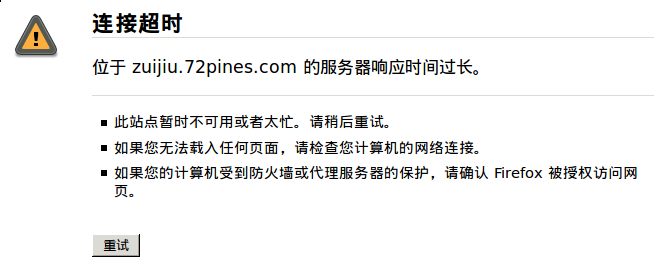
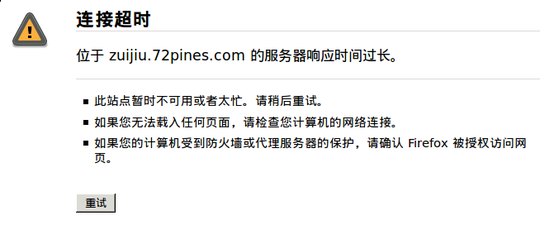
1 set body width to 600px to make it more beautifull
2 handwriting post

diff --git a/_layouts/default.html b/_layouts/default.html
@@ -19,19 +19,19 @@
     
     
     <div id="content">
-      <h1 class="title">Sagebane's little cabin</h1>
+      <h1 class="title">Non-geek's page</h1>
       <div id="navigation">
 	<a href="/index.html">home</a>
 	<a href="/blog.html">blog</a>
 	<a href="/404.html">contact</a>
 	<a href="/404.html">repo</a>
-	<hr style="width: 100%; height: 1px;">
       </div>
-
+      <hr style="width: 100%; height: 3px;">
+      <br>
       {{ content }}
 
       <div class="footer">
-	<hr style="width: 100%; height: 1px;"><br>
+	<hr style="width: 100%; height: 1px;">
 	<div align="center"><i><font size="-1">Copyright © sgbn - 23th Sep 2012</font></i></div>
 	<br>
       </div>

diff --git a/css/default.css b/css/default.css
@@ -15,7 +15,7 @@ body {
 
 #preamble, #content, #postamble {
   margin: 0 auto;
-  max-width: 800px;
+  max-width: 600px;
 }
 
 #navigation {

diff --git a/_layouts/post.html b/_layouts/post.html
@@ -2,6 +2,7 @@
 layout: default
 ---
 <div id="post">
+<h1>{{ page.title }}</h1>
   {{ content }}
 </div>
 

diff --git a/_posts/2013-03-06-english-handwriting.md b/_posts/2013-03-06-english-handwriting.md
@@ -1,0 +1,43 @@
+---
+layout: post
+title: English handwriting
+excerpt: 
+---
+
+一向喜爱英文书法婀娜的身姿， 苦于找不到一个可供临摹的范本。曾经下载过一
+些手写字体。妄图通过它们来学习书法。然而字体终归是死的,没有灵性。直到有
+一天，看到了Anna Green Winslow的日记，顿感眼前一亮，这不正是我想要的么。
+书写方式优雅大方，变化多端，却总透着一种自然美。而且这竟然是一个十岁小
+女孩的手笔。
+
+## 安娜的日记
+![Anna Green Winslow's diary](/images/Anna_Green_Winslow's_diary_entry_in_handwriting.png)
+
+I hope aunt wont let me wear the black hatt with the red Dominie, for
+the people will adkme what I have got to sell as I go along street if
+I do, or how the folk at New guinie do? dear mamma, you dont know the
+fation here, I beg to look like other folk. Y ou dont know what a stir
+would be made in sudbury street, were I to make my appearance there in
+my red Dominie & black Hatt. But the old cloak & bonnett together will
+make me a decent bonnett for common ocation(I like that) aount says,
+its a pitty some of ribbins you sent wont do for the Bonnet. Imust now
+close up this Journal. Whit Duty, Love & Compliments as due,
+perticularly to my Dear little brother(I long to see him) & Mrs. Law,
+Iwill write to her soon.
+
+I am Hond Papa & mama, Yr ever Dutiful Daughter  Anne Green Winslow.
+
+N.B.My aunt Deming dont approve of my English & has not the fear that
+you will think her concernd in the Diction.
+
+## 英文手写的正确姿势
+
+小时候，启蒙老师教我们写字要端正坐姿，作业本也要摆放端正。而到初中开始
+学英语的时候，老师并没有特别提到过英文书写的坐姿问题，我们也就把它当中
+文写了。然而总觉得有点儿不爽。
+
+直到前几天，特意关注了一下英文的书写姿势，竟然是这样的：
+
+
+大概中文是横平竖直，方方正正，所以坐姿也要方正。而手写英文往往都是往右
+边倒的。

diff --git a/index.md b/index.md
@@ -1,14 +1,14 @@
 ---
 layout: default
-title: sgbn's little cabin
+title: Non-geek's page
 ---
+# Who is this?
 
-# About me
+I'm a programmer, but not a good one. 
 
-  I got this name Sagebane form a pop novel &lt;A song of ice and fire&gt;,
-  there is a lord named Whorebane Umber, it indicates that he is a
-  famous whore killer. though I found bane something is funny, Why not
-  bane something myself? So I chosed the sage to bane..
+Wanna be a geek, but not a geek honestly.
+
+It seems still take me serveral years to find WHO I am, and I will try it hard.
 
 # Related posts
 
@@ -19,7 +19,7 @@ title: sgbn's little cabin
             <a href="{{ post.url }}">{{ post.title }}</a>
             <span>({{ post.date | date:"%Y-%m-%d" }})</span>
     </li>
-    </br> <em>{{ post.excerpt }} </em>
+    <em>{{ post.excerpt }} </em>
     </div>
   {% endfor %}
 </ul>
